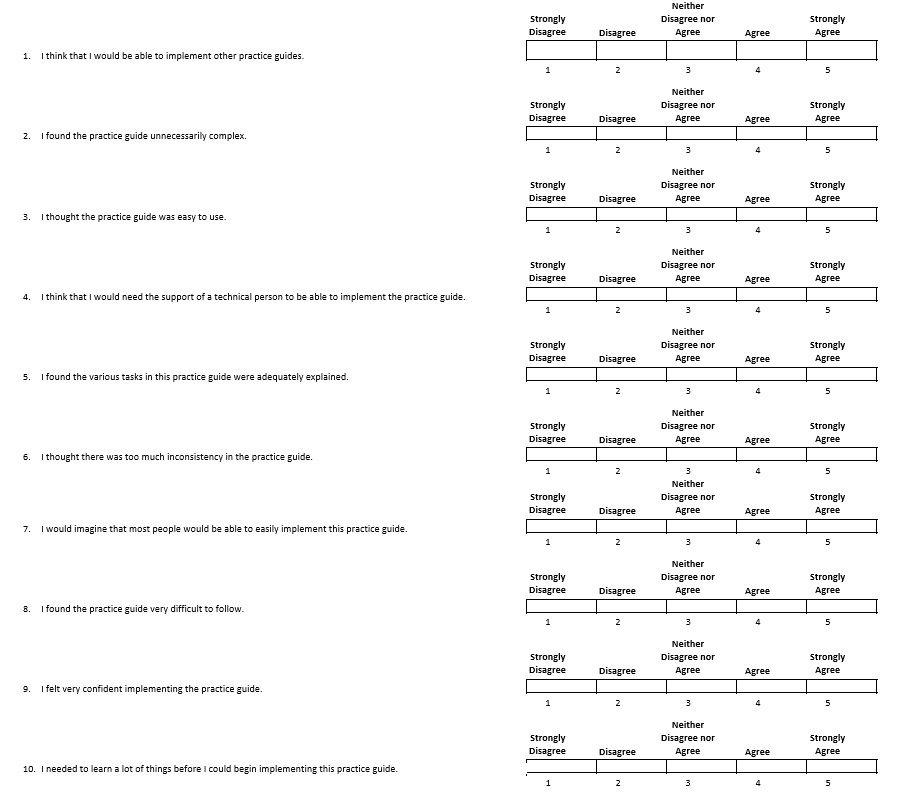
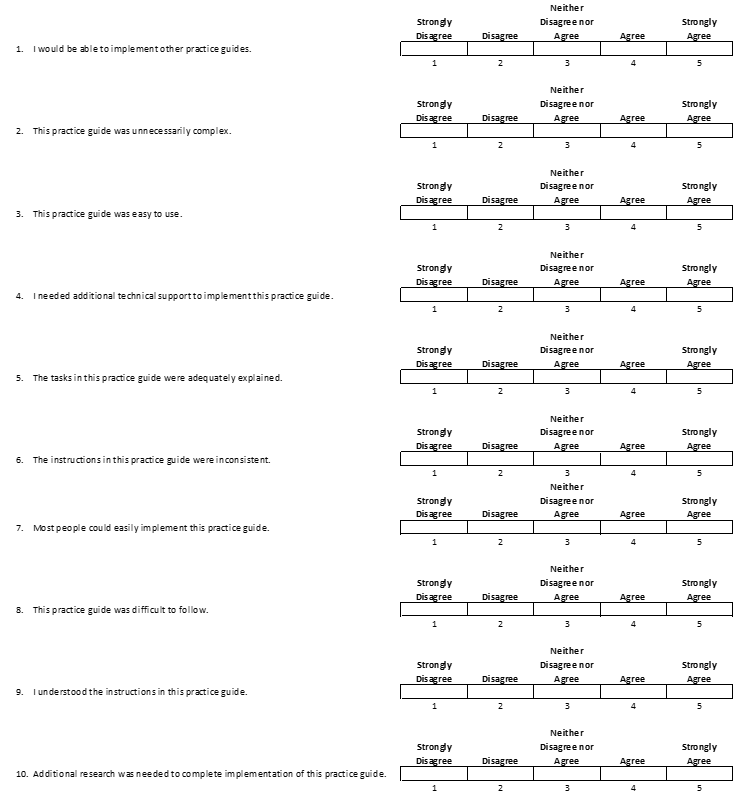
updated PGUS questions

diff --git a/UsabilityScoring/README.md b/UsabilityScoring/README.md
@@ -15,7 +15,7 @@ After all ten questions have been answered, the SUS score is calculated as follo
 
 According to Thomas (2015), the SUS scores can be evaluated as follows:
 <ul>
-  <li> 80.3 and above = A. Users love the site and would reccomend it to others </li>
+  <li> 80.3 and above = A. Users love the site and would recommend it to others </li>
   <li> 68 = C. There's room for improvement </li>
   <li> 51 and below = F. Usability needs to be made a priority and fixed quickly </li>
 </ul>
@@ -26,16 +26,16 @@ The text of the original SUS questions have been modified to apply to the NIST P
 
 | Question Number | System Usability Scale Question | Practice Guide Usability Scale Question |
 | ---- | --------------------------------| --------------------------------------- |
-| 1 | I think that I would like to use this system frequently. | I think that I would be able to implement other practice guides. |
-| 2 | I found the system unnecessarily complex. | I found the practice guide unnecessarily complex. |
-| 3 | I thought the system was easy to use. | I thought the practice guide was easy to use. |
-| 4 | I think that I would need the support of a technical person to be able to use this system. | I think that I would need the support of a technical person to be able to implement the practice guide. |
-| 5 | I found the various functions in this system were well integrated. | I found the various tasks in this practice guide were adequately explained. |
-| 6 | I thought there was too much inconsistency in this system. | I thought there was too much inconsistency in the practice guide. |
-| 7 | I would imagine that most people would learn to use this system very quickly. | I would imagine that most people would be able to easily implement this practice guide. |
-| 8 | I found the system very cumbersome to use. | I found the practice guide very difficult to follow. |
-| 9 | I felt very confident using the system. | I felt very confident implementing the practice guide. |
-| 10 | I needed to learn a lot of things before I could get going with this system. | I needed to learn a lot of things before I could begin implementing this practice guide. |
+| 1 | I think that I would like to use this system frequently. | I would be able to implement other practice guides. |
+| 2 | I found the system unnecessarily complex. | This practice guide was unnecessarily complex. |
+| 3 | I thought the system was easy to use. | This practice guide was easy to use. |
+| 4 | I think that I would need the support of a technical person to be able to use this system. | I needed additional technical support to implement this practice guide. |
+| 5 | I found the various functions in this system were well integrated. | The tasks in this practice guide were adequately explained. |
+| 6 | I thought there was too much inconsistency in this system. | The instructions in this practice guide were inconsistent. |
+| 7 | I would imagine that most people would learn to use this system very quickly. | Most people could easily implement this practice guide. |
+| 8 | I found the system very cumbersome to use. | This practice guide was difficult to follow. |
+| 9 | I felt very confident using the system. | I understood the instructions in this practice guide. |
+| 10 | I needed to learn a lot of things before I could get going with this system. | Additional research was needed to complete implementation of this practice guide. |
 
 ## Practice Guide Usability Scale Survey
 
